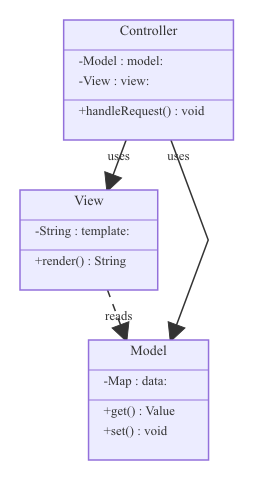
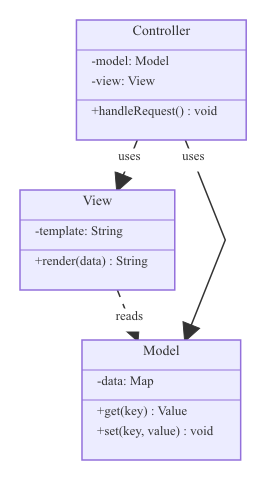
class: fix member parsing, preserve method args, add edge-label chips (#74)
* class: fix member parsing, preserve method args, add edge-label chips

Three regressions vs mermaid-cli when rendering class diagrams:

1. Field syntax `+String name` rendered as `+name : String`. The parser
   split member lines on whitespace and assumed `parts[0]` was the type,
   losing the source's chosen ordering. Fixed by storing the post-
   visibility text verbatim in Name; the renderer now prints fields as-
   written, matching mmdc.

2. Field syntax `-template: String` rendered as `-String : template:`.
   Same whitespace split — the trailing colon stuck to "template:" and
   ended up in ReturnType. Verbatim storage fixes this too.

3. Method args were dropped: `+get(key) Value` rendered as `+get() :
   Value`. Parser only captured the name before `(`; never read between
   the parens. Added an `Args` field to ClassMember; parser now extracts
   args; renderer emits `name(args) : returnType`.

Also added a chip-style backdrop behind edge labels (the same theme-
aware Rect introduced for flowchart in PR #73) so association labels
remain legible against crossing lines.

Tests, examples (`examples/class/{simple,mvc}.{svg,png}`), and class
goldens regenerated.

* class: split nested TrimSpace/TrimPrefix in parseMember for readability

* class parser: match nested parens by depth in method args

Reviewer flag — `+execute(callback (x, y)) void` previously truncated
Args at the first inner `)`, leaving `Args="callback (x, y"` and
[…]

diff --git a/pkg/parser/class/parser_test.go b/pkg/parser/class/parser_test.go
@@ -46,11 +46,71 @@ func TestParseClassWithMembers(t *testing.T) {
 	if len(c.Members) != 3 {
 		t.Fatalf("want 3 members, got %d", len(c.Members))
 	}
-	if c.Members[0].Name != "name" || c.Members[0].Visibility != diagram.VisibilityPublic {
+	// Fields are stored verbatim (post-visibility) so the renderer can
+	// preserve the source's chosen "type name" or "name: type" ordering.
+	if c.Members[0].Name != "String name" || c.Members[0].Visibility != diagram.VisibilityPublic {
 		t.Errorf("member[0] = %+v", c.Members[0])
 	}
 	if !c.Members[2].IsMethod {
 		t.Error("eat should be a method")
+	}
+	if c.Members[2].Name != "eat" || c.Members[2].Args != "food" || c.Members[2].ReturnType != "bool" {
+		t.Errorf("member[2] = %+v", c.Members[2])
+	}
+}
+
+// Regression: `name: type` field syntax was previously mangled by a
+// whitespace split that dropped the colon onto the wrong half — the mvc
+// example rendered `-template: String` as `-String : template:`.
+func TestParseFieldColonSyntax(t *testing.T) {
+	input := `classDiagram
+    class View {
+        -template: String
+    }`
+	d, err := Parse(strings.NewReader(input))
+	if err != nil {
+		t.Fatalf("parse: %v", err)
+	}
+	got := d.Classes[0].Members[0]
+	if got.Name != "template: String" || got.IsMethod || got.ReturnType != "" {
+		t.Errorf("member = %+v, want Name=\"template: String\"", got)
+	}
+}
+
+// Regression: method arguments were dropped — the parser only captured
+// the name before `(` and never read the text inside the parens.
+func TestParseMethodArgsPreserved(t *testing.T) {
+	cases := []struct {
+		src      string
+		wantName string
+		wantArgs string
+		wantRet  string
+	}{
+		{"+get(key) Value", "get", "key", "Value"},
+		{"+set(key, value) void", "set", "key, value", "void"},
+		{"+render(data): String", "render", "data", "String"},
+		{"+save()", "save", "", ""},
+		// Nested parens in args (lambda or grouped expression style)
+		// must not be truncated at the first inner `)`.
+		{"+execute(callback (x, y)) void", "execute", "callback (x, y)", "void"},
+	}
+	for _, tc := range cases {
+		t.Run(tc.src, func(t *testing.T) {
+			input := "classDiagram\n    class C {\n        " + tc.src + "\n    }"
+			d, err := Parse(strings.NewReader(input))
+			if err != nil {
+				t.Fatalf("parse: %v", err)
+			}
+			m := d.Classes[0].Members[0]
+			if !m.IsMethod {
+				t.Fatalf("expected method, got %+v", m)
+			}
+			if m.Name != tc.wantName || m.Args != tc.wantArgs || m.ReturnType != tc.wantRet {
+				t.Errorf("got Name=%q Args=%q ReturnType=%q; want %q/%q/%q",
+					m.Name, m.Args, m.ReturnType,
+					tc.wantName, tc.wantArgs, tc.wantRet)
+			}
+		})
 	}
 }
 

diff --git a/pkg/renderer/class/renderer.go b/pkg/renderer/class/renderer.go
@@ -70,7 +70,7 @@ func Render(d *diagram.ClassDiagram, opts *Options) ([]byte, error) {
 		Style: fmt.Sprintf("fill:%s;stroke:none", th.Background),
 	})
 
-	children = append(children, renderEdges(d, l, pad, fontSize, th)...)
+	children = append(children, renderEdges(d, l, pad, fontSize, th, ruler)...)
 	children = append(children, renderClasses(d, l, pad, fontSize, th)...)
 
 	svg := svgDoc{
@@ -143,14 +143,14 @@ func memberText(m diagram.ClassMember) string {
 	case diagram.VisibilityPackage:
 		prefix = "~"
 	}
-	name := m.Name
 	if m.IsMethod {
-		name += "()"
+		body := m.Name + "(" + m.Args + ")"
+		if m.ReturnType != "" {
+			body += " : " + m.ReturnType
+		}
+		return prefix + body
 	}
-	if m.ReturnType != "" {
-		return prefix + name + " : " + m.ReturnType
-	}
-	return prefix + name
+	return prefix + m.Name
 }
 
 func renderClasses(d *diagram.ClassDiagram, l *layout.Result, pad, fontSize float64, th Theme) []any {
@@ -225,7 +225,7 @@ func appendMemberSection(elems []any, members []diagram.ClassMember, x, w, secti
 	return elems, sectionY + classPadY + float64(len(members))*memberRowH
 }
 
-func renderEdges(d *diagram.ClassDiagram, l *layout.Result, pad, fontSize float64, th Theme) []any {
+func renderEdges(d *diagram.ClassDiagram, l *layout.Result, pad, fontSize float64, th Theme, ruler *textmeasure.Ruler) []any {
 	edgeKeys := make([]graph.EdgeID, 0, len(l.Edges))
 	for eid := range l.Edges {
 		edgeKeys = append(edgeKeys, eid)
@@ -307,10 +307,24 @@ func renderEdges(d *diagram.ClassDiagram, l *layout.Result, pad, fontSize float6
 		if rel.Label != "" {
 			lx := el.LabelPos.X + pad
 			ly := el.LabelPos.Y + pad
+			labelFont := fontSize - 1
+			labelW, labelH := ruler.Measure(rel.Label, labelFont)
+			const labelPad = 4.0
+			// Chip backdrop tinted with the theme background, mirroring
+			// the flowchart edge-label treatment (PR #73). Without it,
+			// long association labels visually merge with the edge line
+			// and any class boxes they cross.
+			elems = append(elems, &rect{
+				X: svgFloat(lx - labelW/2 - labelPad), Y: svgFloat(ly - labelH/2 - labelPad),
+				Width:  svgFloat(labelW + 2*labelPad),
+				Height: svgFloat(labelH + 2*labelPad),
+				RX:     3, RY: 3,
+				Style: fmt.Sprintf("fill:%s;stroke:none", th.Background),
+			})
 			elems = append(elems, &text{
 				X: svgFloat(lx), Y: svgFloat(ly),
 				Anchor: "middle", Dominant: "central",
-				Style:   fmt.Sprintf("fill:%s;font-size:%.0fpx", th.EdgeText, fontSize-1),
+				Style:   fmt.Sprintf("fill:%s;font-size:%.0fpx", th.EdgeText, labelFont),
 				Content: rel.Label,
 			})
 		}

diff --git a/pkg/parser/class/parser.go b/pkg/parser/class/parser.go
@@ -123,26 +123,44 @@ func parseMember(line string) diagram.ClassMember {
 	}
 	if idx := strings.Index(line, "("); idx >= 0 {
 		m.IsMethod = true
-		if closeIdx := strings.Index(line, ")"); closeIdx >= 0 {
+		// Match the closing `)` by depth so args containing grouped
+		// expressions like `execute(callback (x, y))` aren't truncated
+		// at the first inner `)`.
+		if closeIdx := matchCloseParen(line, idx); closeIdx >= 0 {
 			m.Name = strings.TrimSpace(line[:idx])
-			if closeIdx+1 < len(line) {
-				m.ReturnType = strings.TrimSpace(line[closeIdx+1:])
-			}
+			m.Args = strings.TrimSpace(line[idx+1 : closeIdx])
+			// Allow either `foo() bar` or `foo(): bar`; mermaid accepts both.
+			tail := strings.TrimSpace(line[closeIdx+1:])
+			m.ReturnType = strings.TrimSpace(strings.TrimPrefix(tail, ":"))
 		} else {
 			m.Name = strings.TrimSpace(line)
 		}
 	} else {
-		parts := strings.Fields(line)
-		switch len(parts) {
-		case 0:
-		case 1:
-			m.Name = parts[0]
-		default:
-			m.ReturnType = parts[0]
-			m.Name = parts[1]
-		}
+		// Preserve fields verbatim. Both `String name` (Java/C#) and
+		// `name: String` (TypeScript) are valid mermaid; splitting on
+		// whitespace inverts the former, splitting on `:` mangles the
+		// latter (`-template: String` → `-String : template:`).
+		m.Name = strings.TrimSpace(line)
 	}
 	return m
+}
+
+// matchCloseParen returns the index of the `)` that pairs with the `(`
+// at openIdx, or -1 if unbalanced. Tracks nesting depth.
+func matchCloseParen(line string, openIdx int) int {
+	depth := 0
+	for i := openIdx; i < len(line); i++ {
+		switch line[i] {
+		case '(':
+			depth++
+		case ')':
+			depth--
+			if depth == 0 {
+				return i
+			}
+		}
+	}
+	return -1
 }
 
 func parseAnnotation(s string) diagram.ClassAnnotation {

diff --git a/pkg/renderer/class/renderer_test.go b/pkg/renderer/class/renderer_test.go
@@ -3,6 +3,7 @@ package class
 import (
 	"bytes"
 	"encoding/xml"
+	"fmt"
 	"strings"
 	"testing"
 
@@ -205,8 +206,34 @@ func TestRenderEdgeWithLabel(t *testing.T) {
 	if err != nil {
 		t.Fatalf("Render: %v", err)
 	}
-	if !strings.Contains(string(out), ">uses<") {
+	raw := string(out)
+	if !strings.Contains(raw, ">uses<") {
 		t.Error("edge label missing")
+	}
+	// Chip backdrop: a Rect filled with the theme background sits
+	// behind the label so it stays legible against crossing lines.
+	bg := DefaultTheme().Background
+	if !strings.Contains(raw, fmt.Sprintf(`fill:%s;stroke:none`, bg)) {
+		t.Errorf("expected edge-label chip backdrop with fill:%s", bg)
+	}
+}
+
+// Method args must survive the parser→renderer round-trip. Previously
+// the renderer always emitted empty parens; now it includes Args.
+func TestRenderMethodArgs(t *testing.T) {
+	d := &diagram.ClassDiagram{
+		Classes: []diagram.ClassDef{
+			{ID: "M", Label: "M", Members: []diagram.ClassMember{
+				{Name: "set", Args: "key, value", ReturnType: "void", IsMethod: true, Visibility: diagram.VisibilityPublic},
+			}},
+		},
+	}
+	out, err := Render(d, nil)
+	if err != nil {
+		t.Fatalf("Render: %v", err)
+	}
+	if !strings.Contains(string(out), "+set(key, value) : void") {
+		t.Errorf("expected `+set(key, value) : void` in output:\n%s", string(out))
 	}
 }
 

diff --git a/pkg/diagram/class.go b/pkg/diagram/class.go
@@ -14,8 +14,20 @@ var visibilityNames = []string{"none", "public", "private", "protected", "packag
 
 func (v Visibility) String() string { return enumString(v, visibilityNames) }
 
+// ClassMember holds one entry inside a class body.
+//
+// For methods (IsMethod=true), Name/Args/ReturnType are parsed apart so
+// the renderer can emit the canonical `name(args) : returnType` form
+// regardless of which Mermaid syntax variant the source used.
+//
+// For fields, Name carries the *raw* post-visibility text (e.g. the full
+// "String name" or "name: String"), Args is unused, ReturnType is empty.
+// The renderer prints fields verbatim — splitting on whitespace would
+// silently invert "type name" vs "name type" orderings, and splitting
+// on `:` would mangle TypeScript-style declarations.
 type ClassMember struct {
 	Name       string
+	Args       string
 	ReturnType string
 	Visibility Visibility
 	IsMethod   bool
